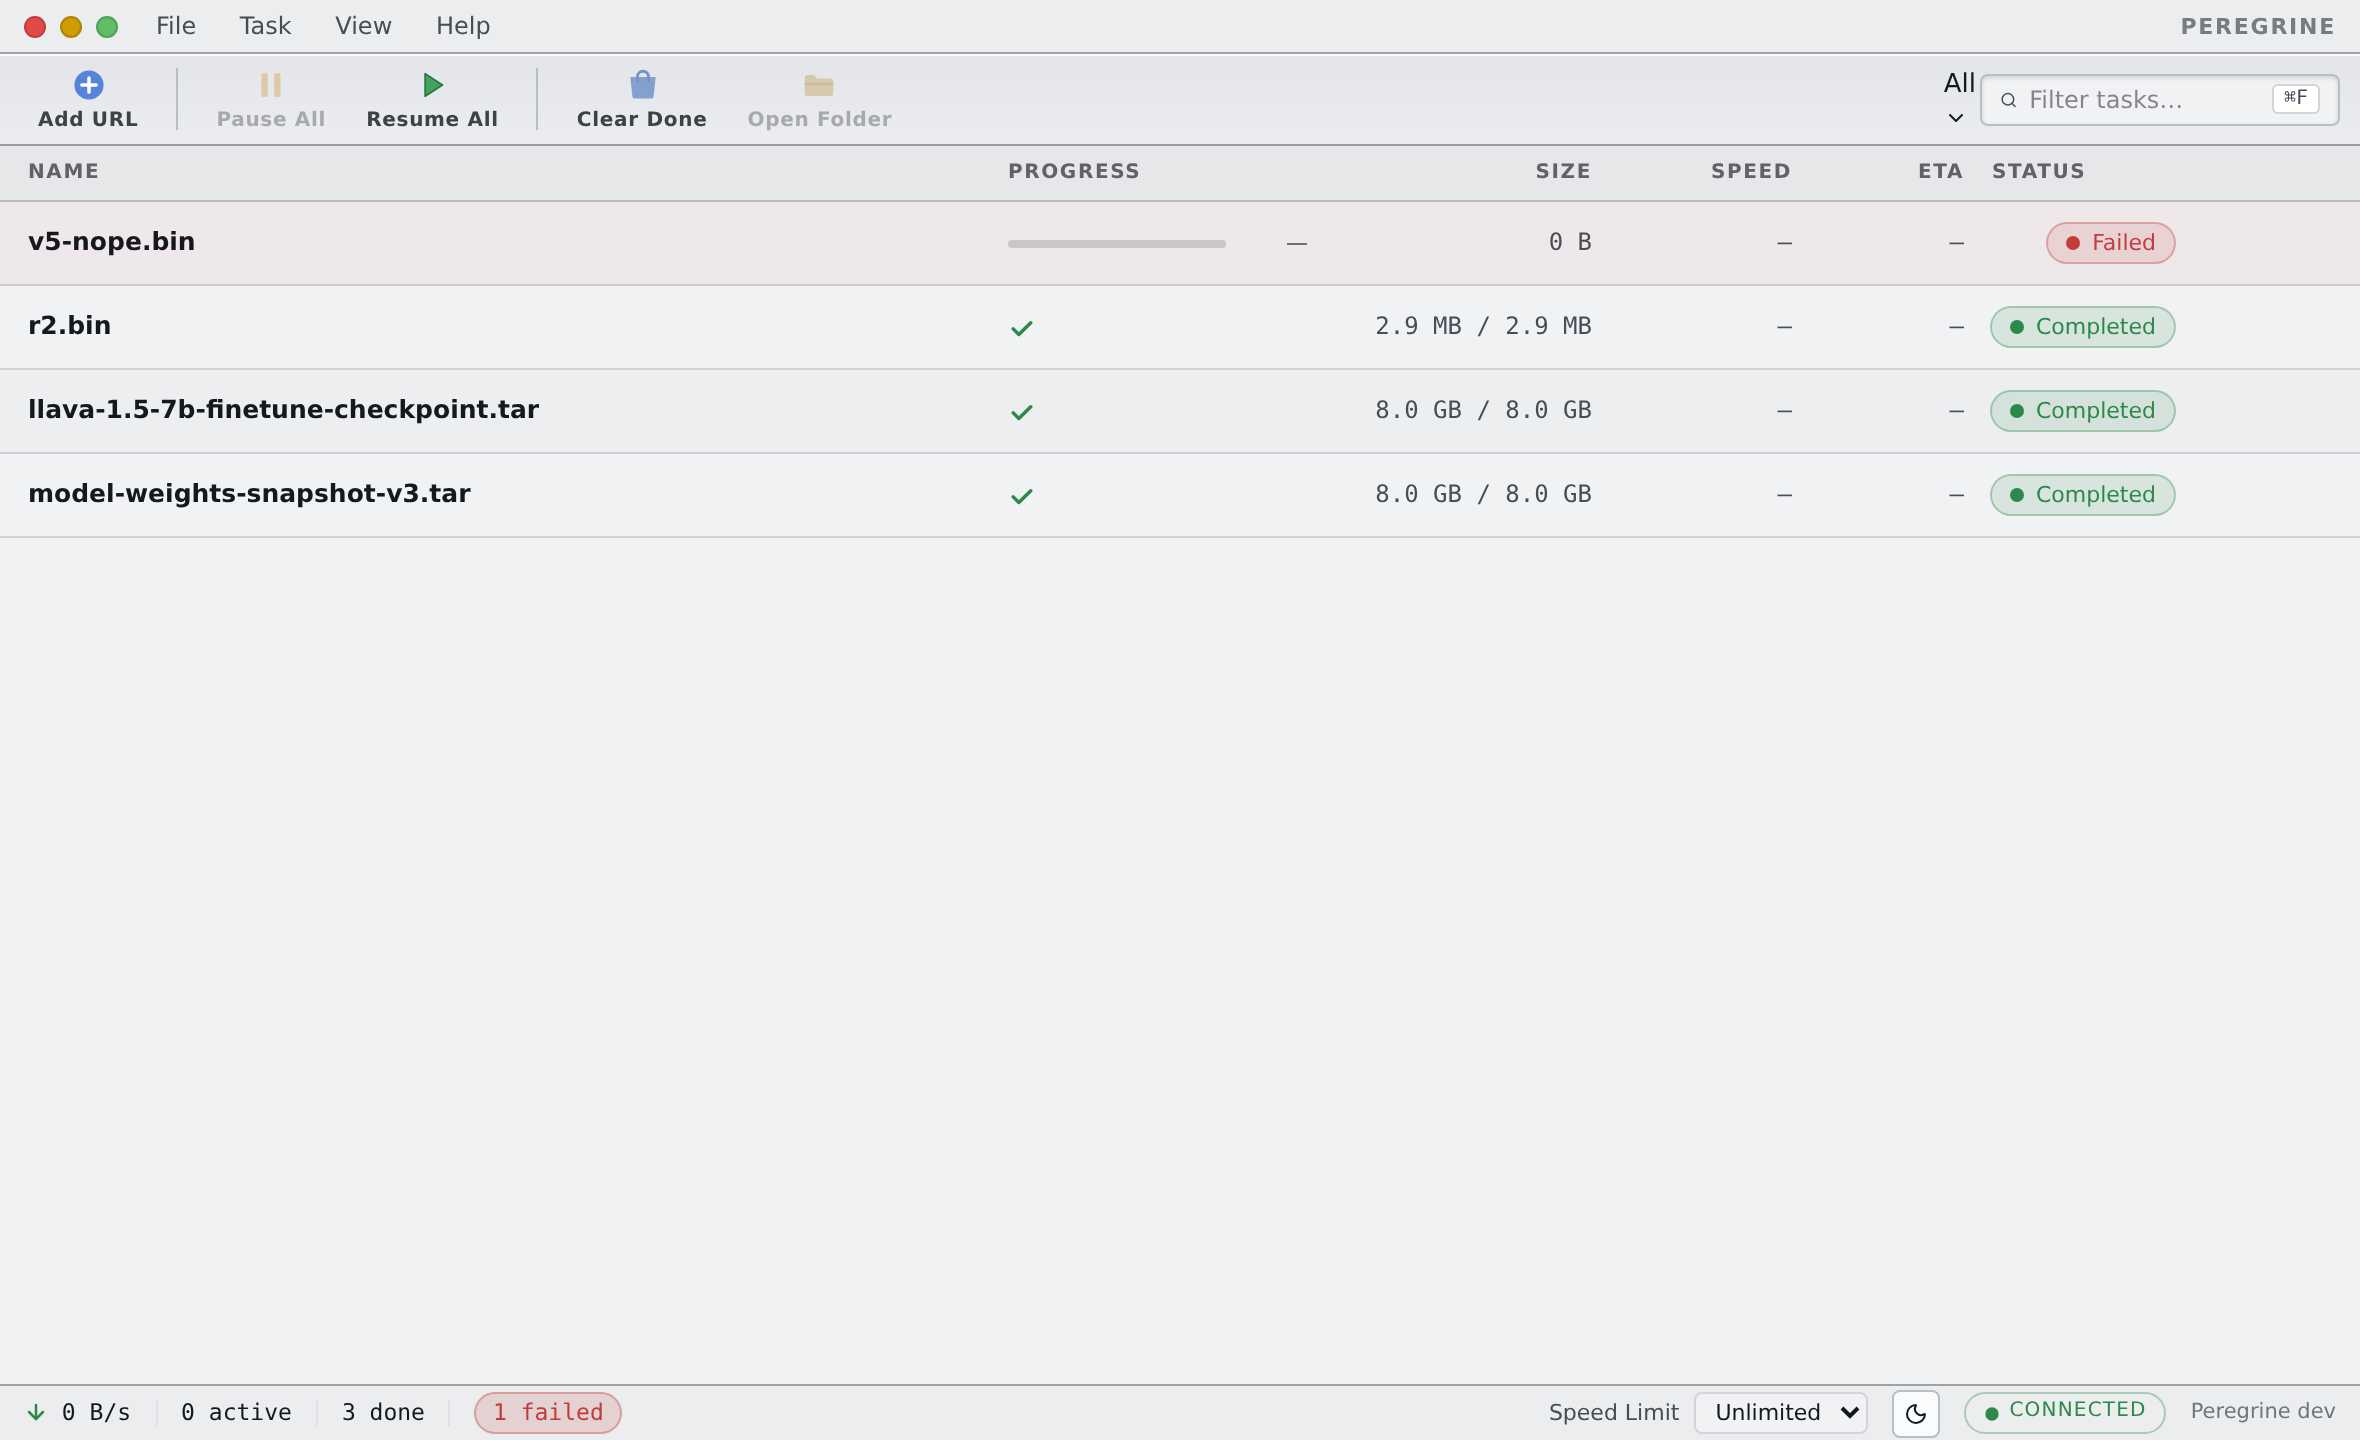
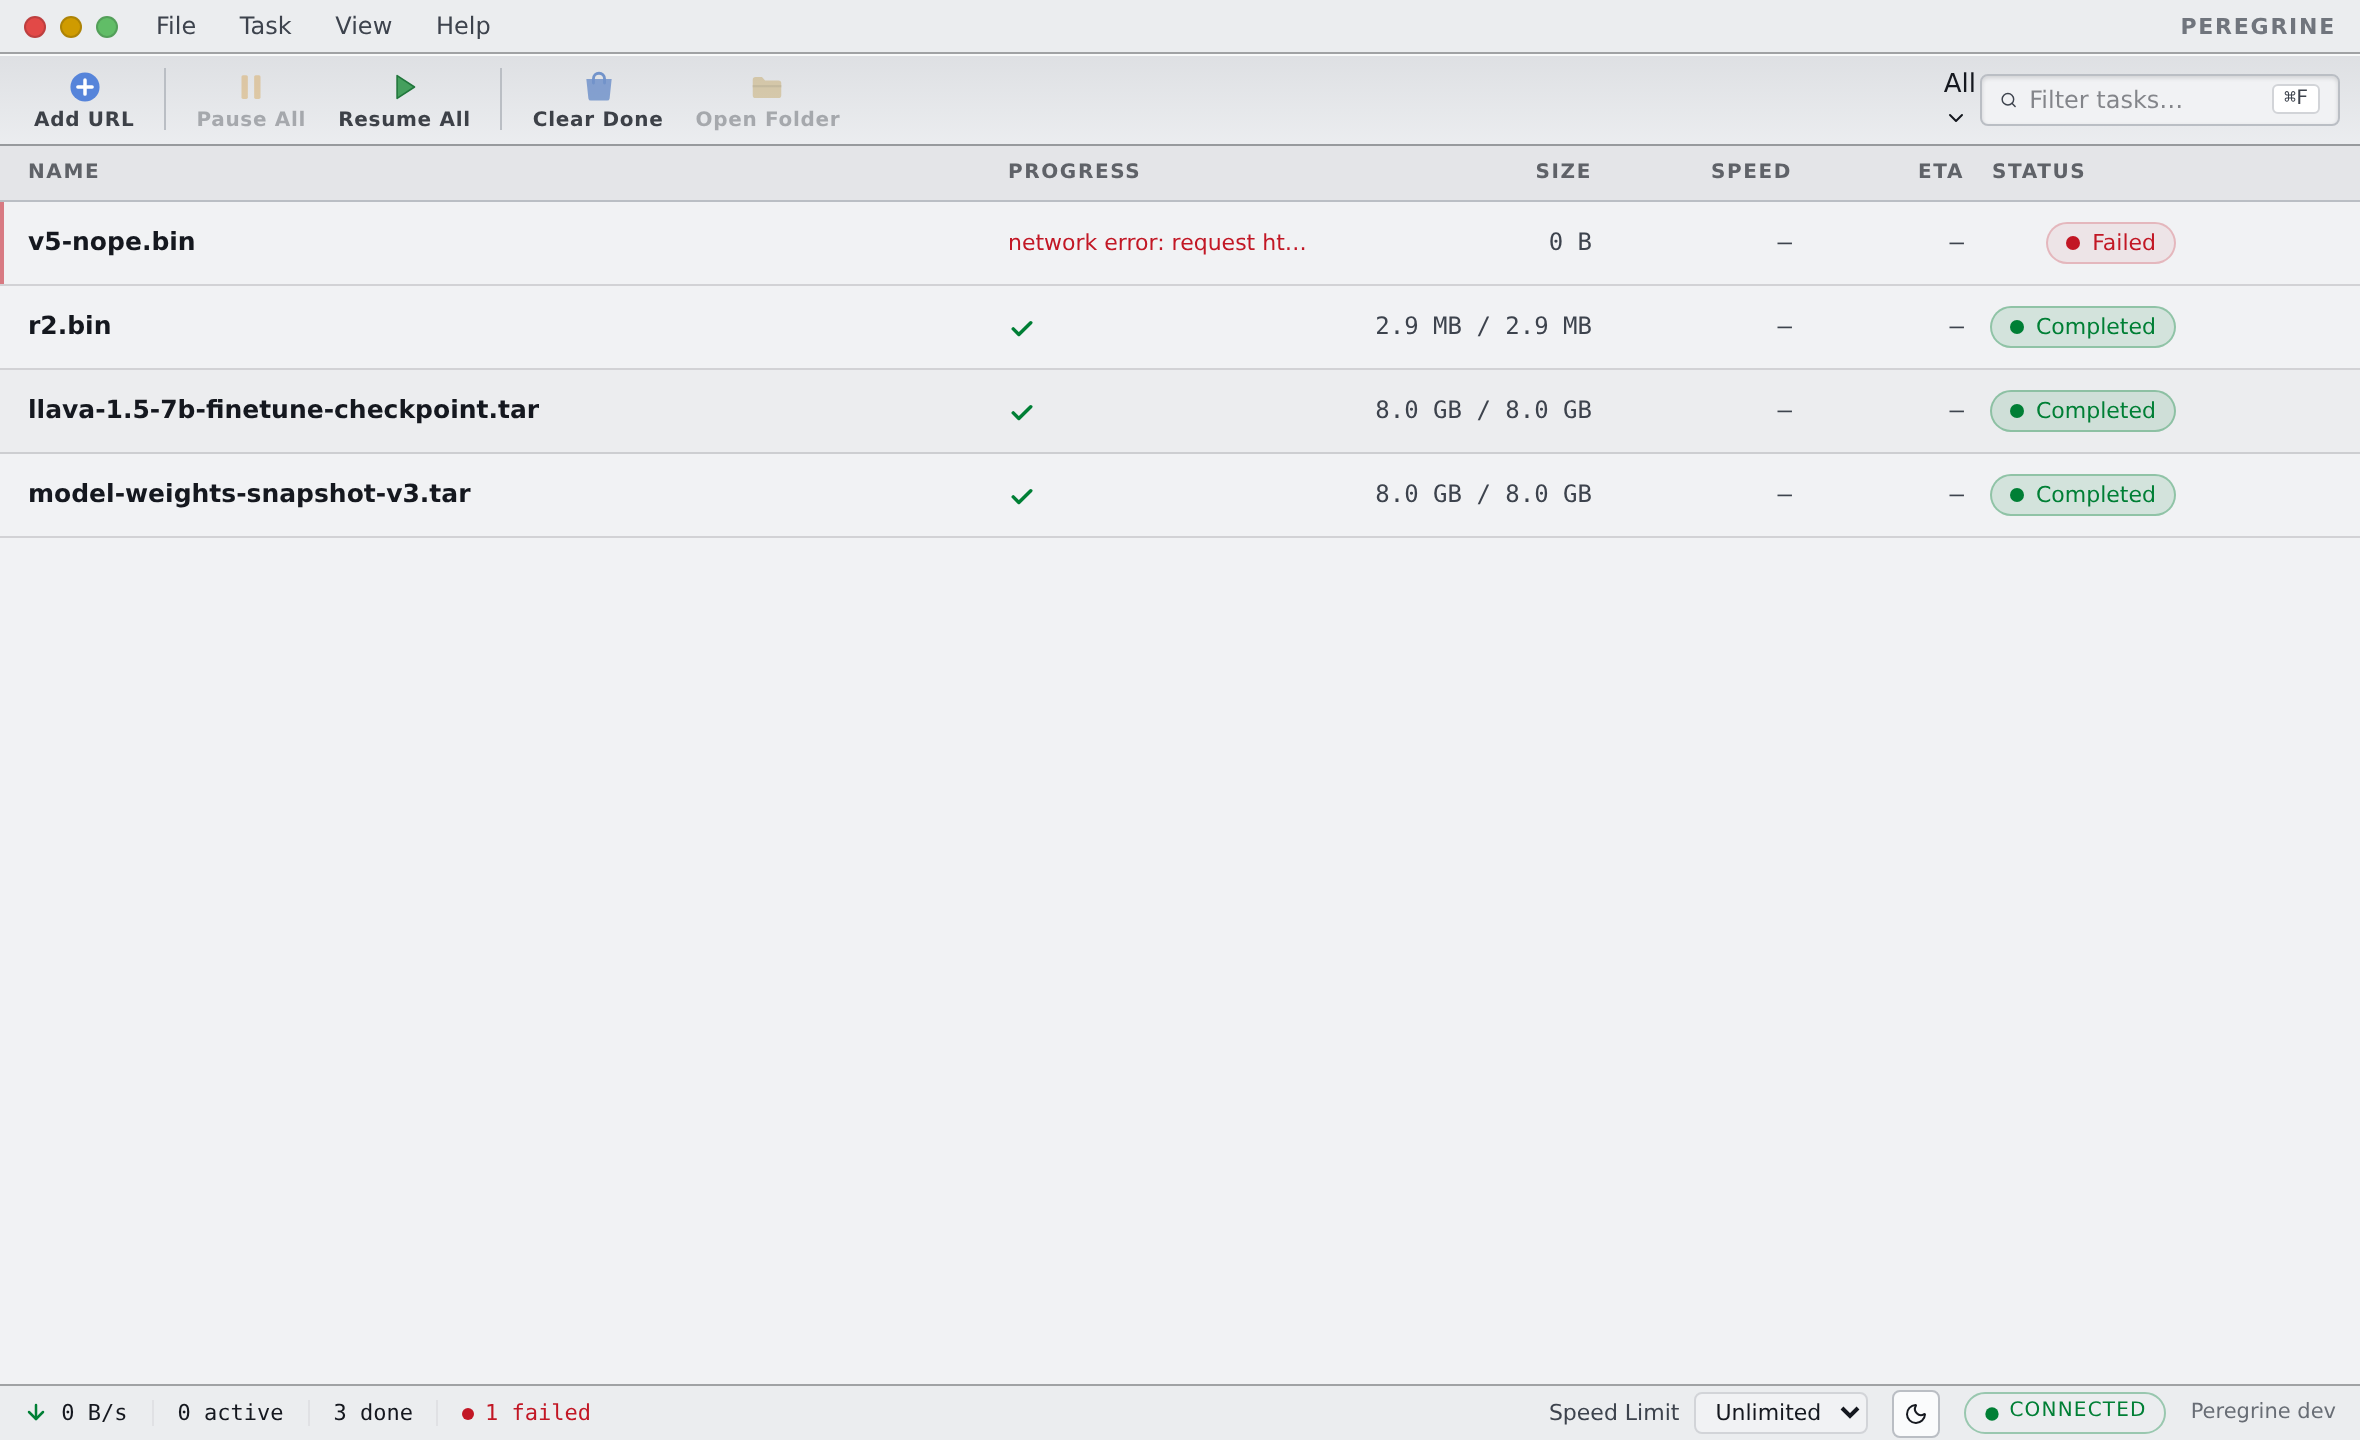
V5-b: polish round — VLM-guided fixes
- TaskRow: failed rows show the error summary inline (red, ellipsized)
  instead of an empty bar; light theme drops the pastel-pink row tint
  for a red hairline (tint stays for dark)
- DetailPanel: per-task speed-limit select moved into the drawer
  header (visible on every tab); SegmentPanel drops the duplicate
  inline limit control
- Toolbar: tighter buttons (50px min, 6px padding)
- StatusBar: 11px, failed counter is a quiet red-dot+text instead
  of a saturated pill
- Light palette: accent saturation up (0.19), dim darker (38%),
  zebra/hover tints and chrome band contrast raised; selected row
  gets a hairline ring instead of washing pink

VLM blind scores: dark 7-8 (stable), light 3-6, drawer 7

diff --git a/apps/desktop/src/lib/TaskRow.svelte b/apps/desktop/src/lib/TaskRow.svelte
@@ -99,6 +99,8 @@
             <svg class="okmark" viewBox="0 0 16 16" width="14" height="14">
               <path d="M3 8.5l3.2 3.2L13 5" fill="none" stroke="var(--ok)" stroke-width="2" stroke-linecap="round" stroke-linejoin="round"/>
             </svg>
+          {:else if task.status === 'failed' && task.error}
+            <span class="errsum" title={task.error}>{task.error}</span>
           {:else}
             <span class="bar"><span class="fill" data-status={task.status} style="width:{pct ?? 0}%"></span></span>
             <span class="pct">{pct !== null ? `${pct}%` : '—'}</span>
@@ -195,11 +197,28 @@
     background: color-mix(in oklch, var(--accent) 30%, transparent);
     box-shadow: inset 2px 0 0 var(--accent);
   }
+  :root[data-theme='light'] .row.selected {
+    /* 30% of a 54%-light accent over white reads washed-out pink;
+     * light wants a lighter tint + a hairline so selection still
+     * snaps without darkening the row. */
+    background: color-mix(in oklch, var(--accent) 15%, transparent);
+    box-shadow: inset 2px 0 0 var(--accent), inset 0 0 0 1px color-mix(in oklch, var(--accent) 25%, transparent);
+  }
   .row[data-status='failed'] {
     background: color-mix(in srgb, var(--err) 5%, transparent);
   }
   .row[data-status='failed'].selected {
     background: color-mix(in srgb, var(--err) 12%, transparent);
+    box-shadow: inset 2px 0 0 var(--err);
+  }
+  /* light: err-tinted rows read as pastel pink on white; a red
+   * hairline carries 'failed' without painting the row. */
+  :root[data-theme='light'] .row[data-status='failed'] {
+    background: transparent;
+    box-shadow: inset 2px 0 0 color-mix(in oklch, var(--err) 55%, transparent);
+  }
+  :root[data-theme='light'] .row[data-status='failed'].selected {
+    background: color-mix(in oklch, var(--err) 8%, transparent);
     box-shadow: inset 2px 0 0 var(--err);
   }
 
@@ -237,6 +256,13 @@
   .fill[data-status='completed'] { background: var(--ok); }
   .fill[data-status='paused'] { background: var(--warn); }
   .fill[data-status='failed'] { background: var(--err); }
+  .errsum {
+    font-size: 11px;
+    color: var(--err);
+    overflow: hidden;
+    text-overflow: ellipsis;
+    white-space: nowrap;
+  }
   .fill[data-status='queued'] { background: var(--info); }
   .pct {
     font-size: 11px;
@@ -306,6 +332,12 @@
     color: var(--err);
     background: color-mix(in srgb, var(--err) 12%, transparent);
     border-color: color-mix(in srgb, var(--err) 32%, transparent);
+  }
+  /* light: saturated err on white turns the pill bubblegum-pink;
+   * halve the chrome, keep the dot+text signal. */
+  :root[data-theme='light'] .row[data-status='failed'] .status {
+    background: color-mix(in srgb, var(--err) 6%, transparent);
+    border-color: color-mix(in srgb, var(--err) 22%, transparent);
   }
   .row[data-status='failed'] .status i { background: var(--err); }
 

diff --git a/apps/desktop/src/lib/SegmentPanel.svelte b/apps/desktop/src/lib/SegmentPanel.svelte
@@ -10,16 +10,14 @@
   import type { Daemon } from './daemon';
   import type { SegmentView } from './types';
   import type { TaskView } from './store.svelte';
-  import { LIMIT_PRESETS, presetFor, formatBytes, formatEta } from './format';
+  import { formatBytes, formatEta } from './format';
 
   let {
     task,
     daemon,
-    onLimit,
   }: {
     task: TaskView;
     daemon: Daemon;
-    onLimit: (id: string, bps: number) => void;
   } = $props();
 
   let segments = $state<SegmentView[] | null>(null);
@@ -60,62 +58,12 @@
     if (secs <= 0 || task.received_bytes <= 0) return null;
     return task.received_bytes / secs;
   });
-
-  // ---- per-task throttle (moved from the U1 row, U2) ----------
-  let custom = $state<number | null>(null); // non-preset value being typed
-
-  const limitSel = $derived(
-    custom !== null ? 'custom' : (presetFor(task.speed_limit_bps) ?? 'custom'),
-  );
-
-  function pickLimit(ev: Event) {
-    const v = (ev.currentTarget as HTMLSelectElement).value;
-    if (v === 'custom') {
-      custom = task.speed_limit_bps; // start editing from current
-      return;
-    }
-    custom = null;
-    onLimit(task.id, Number(v));
-  }
-
-  function commitCustom() {
-    if (custom !== null && Number.isFinite(custom) && custom >= 0) {
-      onLimit(task.id, Math.round(custom));
-    }
-    custom = null;
-  }
 </script>
 
 <div class="detail">
   <div class="facts">
     <span class="kv"><b>ETA</b> {eta}</span>
     <span class="kv"><b>avg</b> {avgBps !== null ? `${formatBytes(avgBps)}/s` : '—'}</span>
-    <span class="kv limit">
-      <b>limit</b>
-      {#if custom !== null}
-        <input
-          class="ctl-input"
-          type="number"
-          min="0"
-          bind:value={custom}
-          onblur={commitCustom}
-          onkeydown={(e) => e.key === 'Enter' && commitCustom()}
-          title="bytes/sec"
-        />
-      {:else}
-        <select
-          class="ctl-select"
-          value={limitSel}
-          onchange={pickLimit}
-          aria-label="Speed limit"
-        >
-          {#each LIMIT_PRESETS as p (p.bps)}
-            <option value={String(p.bps)}>{p.label}</option>
-          {/each}
-          <option value="custom">custom…</option>
-        </select>
-      {/if}
-    </span>
     <span class="kv"><b>url</b> <span class="url" title={task.url}>{task.url}</span></span>
     <span class="kv"><b>path</b> <span class="url" title={task.save_path}>{task.save_path}</span></span>
     {#if task.error}

diff --git a/apps/desktop/src/lib/DetailPanel.svelte b/apps/desktop/src/lib/DetailPanel.svelte
@@ -7,10 +7,11 @@
    * reuses SegmentPanel verbatim.
    */
   import SegmentPanel from './SegmentPanel.svelte';
-  import { formatBytes, formatBps, formatEta } from './format';
+  import { LIMIT_PRESETS, presetFor, formatBytes, formatBps, formatEta } from './format';
   import type { TaskView } from './store.svelte';
   import type { Daemon } from './daemon';
   import { X } from '@lucide/svelte';
+  
 
   let {
     task,
@@ -83,6 +84,20 @@
       {/each}
     </nav>
     <span class="dname" title={name}>{name}</span>
+    <select
+      class="dlimit"
+      title="Per-task speed limit"
+      aria-label="Per-task speed limit"
+      value={presetFor(task.speed_limit_bps) ?? 'custom'}
+      onchange={(e) => onLimit(task.id, Number(e.currentTarget.value))}
+    >
+      {#each LIMIT_PRESETS as p (p.label)}
+        <option value={p.bps}>{p.bps === 0 ? 'no limit' : p.label}</option>
+      {/each}
+      {#if presetFor(task.speed_limit_bps) === null}
+        <option value={task.speed_limit_bps} selected>{formatBps(task.speed_limit_bps)}/s</option>
+      {/if}
+    </select>
     <button class="dclose" title="Close (Esc)" aria-label="Close details" onclick={onClose}>
       <X size={13} />
     </button>
@@ -90,7 +105,7 @@
 
   <div class="dbody" role="tabpanel">
     {#if tab === 'segments'}
-      <SegmentPanel {task} {daemon} {onLimit} />
+      <SegmentPanel {task} {daemon} />
     {:else if tab === 'speed'}
       <div class="speedbox">
         {#if points}
@@ -166,6 +181,17 @@
     text-overflow: ellipsis;
     white-space: nowrap;
   }
+  .dlimit {
+    font-size: 11px;
+    color: var(--dim);
+    background: var(--elevated);
+    border: 1px solid var(--line);
+    border-radius: 4px;
+    padding: 2px 4px;
+    flex: none;
+    max-width: 110px;
+  }
+  .dlimit:hover { color: var(--text); border-color: var(--line-strong); }
   .dclose {
     display: inline-flex;
     align-items: center;

diff --git a/apps/desktop/src/app.css b/apps/desktop/src/app.css
@@ -63,26 +63,26 @@
   --panel: oklch(100% 0 0);
   --elevated: oklch(98.8% 0.002 262);
   --text: oklch(21% 0.015 262);
-  --dim: oklch(42% 0.02 262);
+  --dim: oklch(38% 0.02 262);
   --line-strong: oklch(80% 0.01 262);
   --line: oklch(87% 0.005 262);
   --line-subtle: oklch(91% 0.004 262);
-  --accent: oklch(56% 0.14 262);
-  --ok: oklch(56% 0.13 150);
-  --warn: oklch(64% 0.12 75);
-  --err: oklch(55% 0.17 25);
+  --accent: oklch(54% 0.19 262);
+  --ok: oklch(52% 0.15 150);
+  --warn: oklch(60% 0.14 75);
+  --err: oklch(52% 0.2 25);
   --scrim: oklch(20% 0.01 262 / 0.4);
   /* V5 chrome bands, light: paper-toned, one and two steps below
    * panel so the frame reads darker-than-paper like a native app. */
   --chrome-1: oklch(94.5% 0.004 262);
-  --chrome-2: oklch(92% 0.005 262);
+  --chrome-2: oklch(90.5% 0.005 262);
   --info: oklch(50% 0.12 240);
   /* light polarity flips: dark hairlines, dark hover tints,
    * softer shadows, white text on the accent fill. */
   --edge: oklch(20% 0.01 262 / 0.35);
   --row-line: oklch(20% 0.01 262 / 0.14);
-  --hover-tint: oklch(22% 0.01 262 / 0.05);
-  --zebra-tint: oklch(22% 0.01 262 / 0.016);
+  --hover-tint: oklch(22% 0.01 262 / 0.07);
+  --zebra-tint: oklch(22% 0.01 262 / 0.024);
   --shade-1: oklch(20% 0.01 262 / 0.18);
   --shade-2: oklch(20% 0.01 262 / 0.28);
   --inset-shade: oklch(20% 0.01 262 / 0.15);

diff --git a/apps/desktop/src/lib/StatusBar.svelte b/apps/desktop/src/lib/StatusBar.svelte
@@ -110,7 +110,7 @@
     padding: 0 12px;
     background: var(--chrome-1);
     border-top: 1px solid var(--edge);
-    font-size: 11.5px;
+    font-size: 11px;
     color: var(--dim);
     flex: none;
   }
@@ -129,11 +129,19 @@
     vertical-align: -2px;
   }
   .stat.danger {
+    /* quiet variant: no pill chrome — a red dot + red text reads
+     * 'failed' at statusbar density without becoming a siren. */
     color: var(--err);
-    background: color-mix(in srgb, var(--err) 16%, transparent);
-    border: 1px solid color-mix(in srgb, var(--err) 35%, transparent);
-    border-radius: 999px;
-    padding: 1px 8px;
+    display: inline-flex;
+    align-items: center;
+    gap: 5px;
+  }
+  .stat.danger::before {
+    content: '';
+    width: 6px;
+    height: 6px;
+    border-radius: 50%;
+    background: currentColor;
   }
   .statusbar.down .stat {
     color: var(--warn);

diff --git a/apps/desktop/src/lib/Toolbar.svelte b/apps/desktop/src/lib/Toolbar.svelte
@@ -144,7 +144,7 @@
   }
   .tdiv {
     width: 1px;
-    margin: 7px 8px;
+    margin: 7px 6px;
     background: var(--line-strong);
     flex: none;
   }
@@ -155,9 +155,9 @@
     flex-direction: column;
     align-items: center;
     justify-content: center;
-    gap: 3px;
-    min-width: 58px;
-    padding: 0 8px;
+    gap: 2px;
+    min-width: 50px;
+    padding: 0 6px;
     border: 1px solid transparent;
     border-radius: 4px;
     background: none;

diff --git a/apps/desktop/src/App.svelte b/apps/desktop/src/App.svelte
@@ -755,7 +755,7 @@
     text-transform: uppercase;
     letter-spacing: 0.08em;
     color: color-mix(in oklch, var(--text) 62%, var(--bg));
-    background: color-mix(in oklch, var(--chrome-2) 82%, oklch(100% 0 0 / 4%));
+    background: color-mix(in oklch, var(--chrome-2) 82%, var(--inset-hl));
     border-bottom: 1px solid var(--line-strong);
     position: sticky;
     top: 0;
